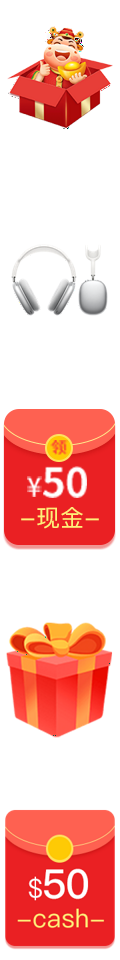
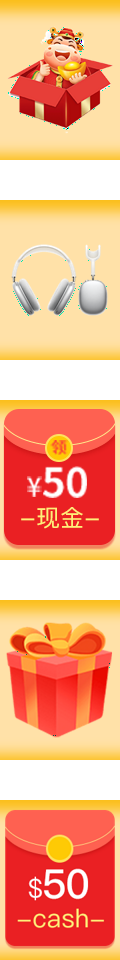
[helpers] DownloadAndOpenAsType允许传入http.Client,方便复用连接

diff --git a/helpers/image.go b/helpers/image.go
@@ -16,6 +16,7 @@ import (
 /*MergeImages 合并图形
 参数:
 *	images     	[]image.Image	图形
+*   bg          image.Image     背景图，可以为空
 *	width      	int          	宽度
 *	height     	int          	高度
 *	distance   	int          	间隔
@@ -24,7 +25,7 @@ import (
 *	*image.RGBA	*image.RGBA  	结果
 *	error      	error        	错误
 */
-func MergeImages(images []image.Image, width, height, distance int, vertical bool) (*image.RGBA, error) {
+func MergeImages(images []image.Image, bg image.Image, width, height, distance int, vertical bool) (*image.RGBA, error) {
 	var (
 		finalHeight = height
 		finalWidth  = width
@@ -39,15 +40,10 @@ func MergeImages(images []image.Image, width, height, distance int, vertical boo
 
 	des := image.NewRGBA(image.Rect(0, 0, finalWidth, finalHeight)) // 底板
 
+	bg = resize.Resize(uint(width), uint(height), bg, resize.Bicubic)
+
 	for i := range images {
 		images[i] = resize.Resize(uint(width), uint(height), images[i], resize.Bicubic)
-
-		// bounds := images[i].Bounds()
-		//
-		// temp := image.NewRGBA(bounds)
-		// draw.Draw(temp, bounds, images[i], image.Pt(0, 0), draw.Over)
-		//
-		// images[i] = temp.SubImage(image.Rect(0, 0, width, height))
 
 		if vertical {
 			rect = image.Rectangle{
@@ -71,7 +67,8 @@ func MergeImages(images []image.Image, width, height, distance int, vertical boo
 			}
 		}
 
-		draw.Draw(des, rect, images[i], image.Pt(0, 0), draw.Src)
+		draw.Draw(des, rect, bg, image.Pt(0, 0), draw.Src)
+		draw.Draw(des, rect, images[i], image.Pt(0, 0), draw.Over)
 	}
 
 	return des, nil

diff --git a/helpers/image_test.go b/helpers/image_test.go
@@ -16,13 +16,24 @@ import (
 )
 
 func TestMergeImages(t *testing.T) {
+
 	images := make([]image.Image, 0, 10)
 
 	var (
 		err    error
 		temp   image.Image
 		target *image.RGBA
+		bg     image.Image
+		file   *os.File
 	)
+
+	file, err = os.Open(`./bg_jp.png`)
+	require.NoError(t, err)
+
+	defer file.Close()
+
+	bg, err = png.Decode(file)
+	require.NoError(t, err)
 
 	err = filepath.WalkDir(`./合并`, func(path string, d fs.DirEntry, err error) error {
 		if filepath.Ext(d.Name()) != `.png` {
@@ -42,7 +53,7 @@ func TestMergeImages(t *testing.T) {
 
 	require.NoError(t, err)
 
-	target, err = MergeImages(images, 120, 160, 40, true)
+	target, err = MergeImages(images, bg, 120, 160, 40, true)
 
 	require.NoError(t, err)
 	require.NoError(t, outputImage(target))
